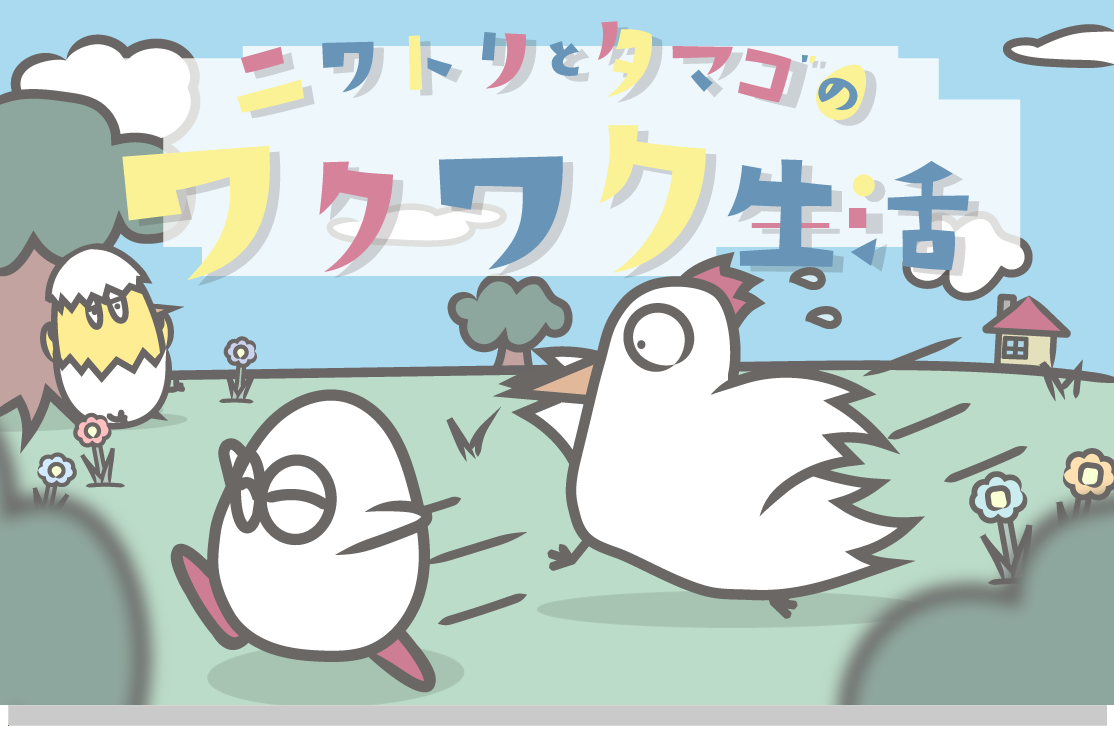
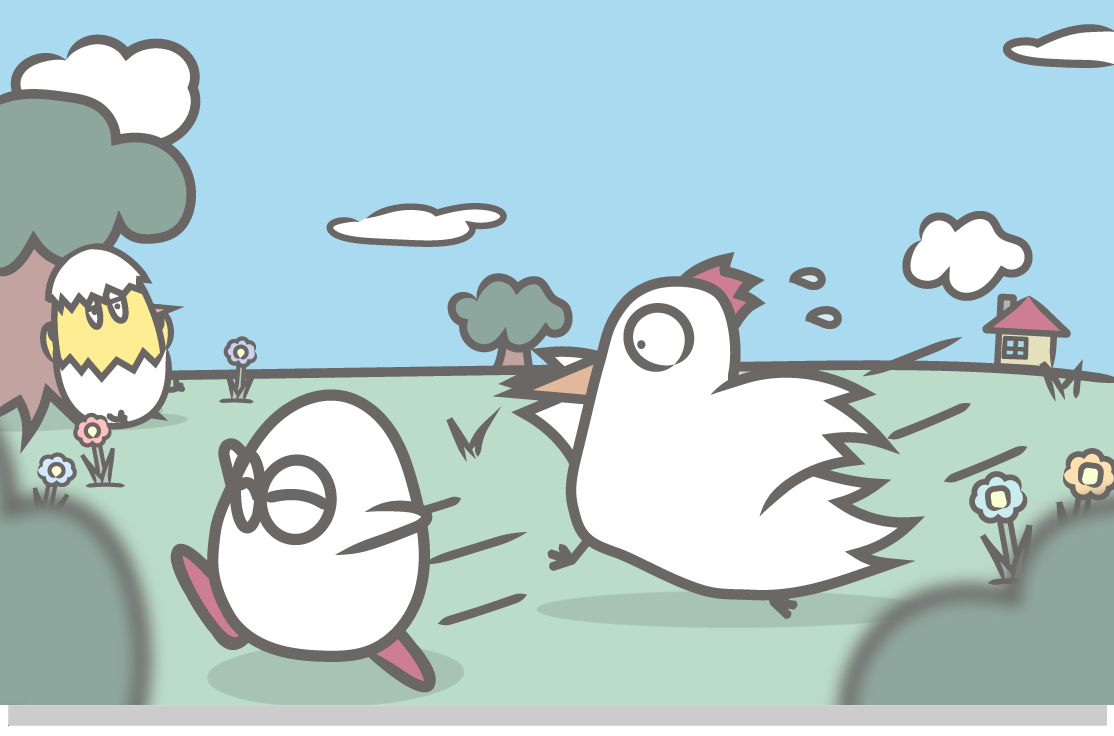
メインバナーを背景画像とロゴ画像に分割し、ロゴだけ遅らせてアニメーション実行

Changed region(s): [[0.0916, 0.0312, 0.9156, 0.4062]]

diff --git a/app/assets/stylesheets/_custom.scss b/app/assets/stylesheets/_custom.scss
@@ -242,3 +242,19 @@ body.fade-in.show::before {
     animation-name: slideDownFadeInSp;
   }
 }
+
+.logo-anim {
+  opacity: 0;
+  animation: slideDownFadeIn 2.0s ease-out forwards;
+  animation-delay: 1.6s;
+}
+
+@media (max-width: 767px) {
+  @keyframes slideDownFadeInOnlyY {
+    from { opacity: 0; transform: translateY(-30px); }
+    to   { opacity: 1; transform: translateY(0); }
+  }
+  .logo-anim {
+    animation-name: slideDownFadeInOnlyY;
+  }
+}
